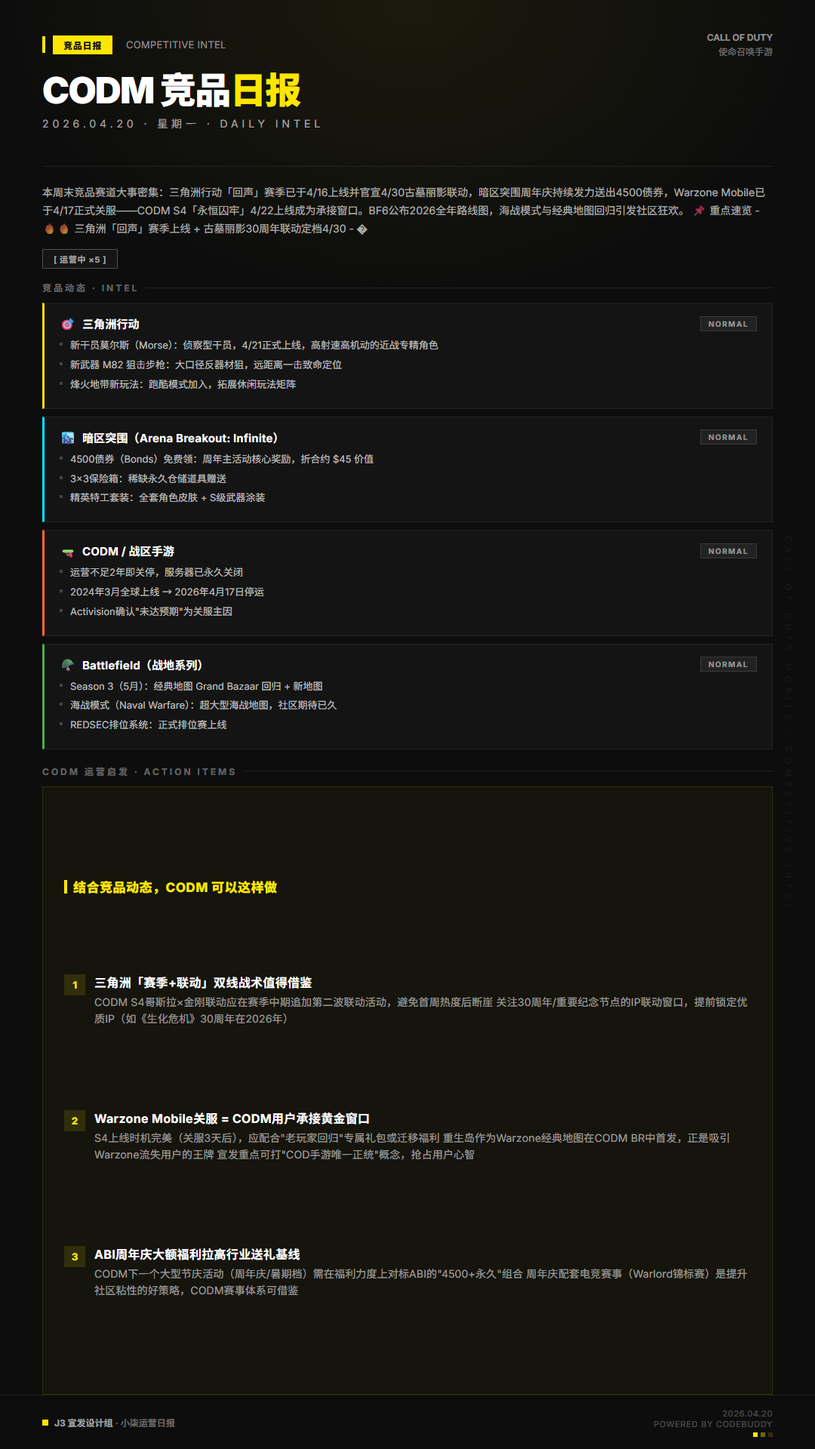
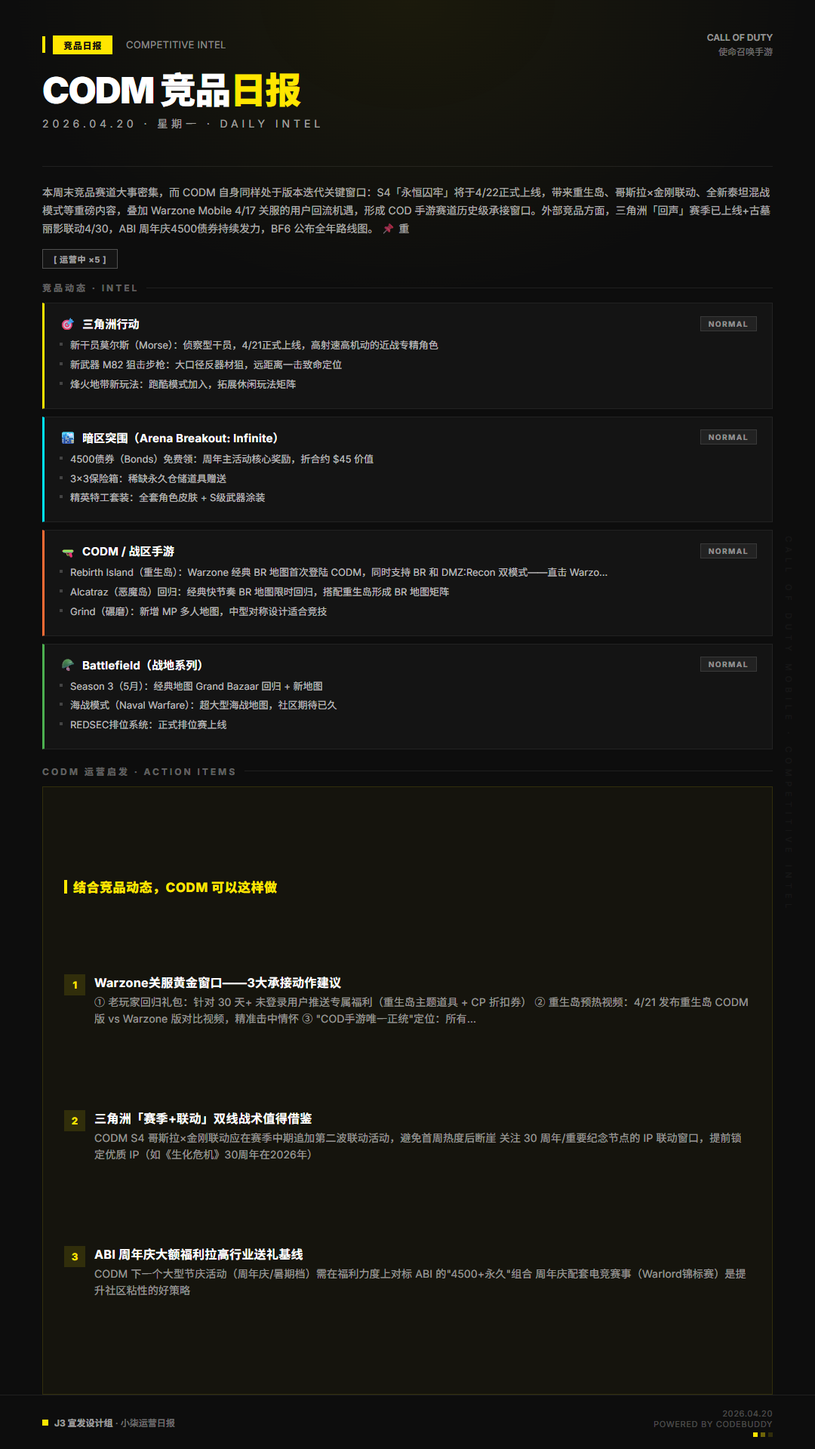
fix: CODM competitive daily 20260420 - add detailed CODM S4 own news

diff --git a/docs/competitive-daily/competitive-daily-card-20260420.html b/docs/competitive-daily/competitive-daily-card-20260420.html
@@ -494,7 +494,7 @@
 
   <!-- 概览 -->
   <div class="overview">
-    <div class="overview-text">本周末竞品赛道大事密集：三角洲行动「回声」赛季已于4/16上线并官宣4/30古墓丽影联动，暗区突围周年庆持续发力送出4500债券，Warzone Mobile已于4/17正式关服——CODM S4「永恒囚牢」4/22上线成为承接窗口。BF6公布2026全年路线图，海战模式与经典地图回归引发社区狂欢。 📌 重点速览 - 🔥🔥 三角洲「回声」赛季上线 + 古墓丽影30周年联动定档4/30 - �</div>
+    <div class="overview-text">本周末竞品赛道大事密集，而 CODM 自身同样处于版本迭代关键窗口：S4「永恒囚牢」将于4/22正式上线，带来重生岛、哥斯拉×金刚联动、全新泰坦混战模式等重磅内容，叠加 Warzone Mobile 4/17 关服的用户回流机遇，形成 COD 手游赛道历史级承接窗口。外部竞品方面，三角洲「回声」赛季已上线+古墓丽影联动4/30，ABI 周年庆4500债券持续发力，BF6 公布全年路线图。 📌 重</div>
   </div>
 
   <!-- 威胁条 -->
@@ -532,7 +532,7 @@
           <span class="comp-name">CODM / 战区手游</span>
           <span class="comp-threat threat-normal">NORMAL</span>
         </div>
-        <div class="comp-highlight">运营不足2年即关停，服务器已永久关闭</div><div class="comp-highlight">2024年3月全球上线 → 2026年4月17日停运</div><div class="comp-highlight">Activision确认"未达预期"为关服主因</div>
+        <div class="comp-highlight">Rebirth Island（重生岛）：Warzone 经典 BR 地图首次登陆 CODM，同时支持 BR 和 DMZ:Recon 双模式——直击 Warzo…</div><div class="comp-highlight">Alcatraz（恶魔岛）回归：经典快节奏 BR 地图限时回归，搭配重生岛形成 BR 地图矩阵</div><div class="comp-highlight">Grind（碾磨）：新增 MP 多人地图，中型对称设计适合竞技</div>
       </div>
       <div class="comp-card" style="border-left-color: #4CAF50;">
         <div class="comp-header">
@@ -556,26 +556,26 @@
       <div class="insight-item">
         <span class="insight-num">1</span>
         <div class="insight-body">
-          <div class="insight-title">三角洲「赛季+联动」双线战术值得借鉴</div>
-          <div class="insight-text">CODM S4哥斯拉×金刚联动应在赛季中期追加第二波联动活动，避免首周热度后断崖
-关注30周年/重要纪念节点的IP联动窗口，提前锁定优质IP（如《生化危机》30周年在2026年）</div>
+          <div class="insight-title">Warzone关服黄金窗口——3大承接动作建议</div>
+          <div class="insight-text">① 老玩家回归礼包：针对 30 天+ 未登录用户推送专属福利（重生岛主题道具 + CP 折扣券）
+② 重生岛预热视频：4/21 发布重生岛 CODM 版 vs Warzone 版对比视频，精准击中情怀
+③ "COD手游唯一正统"定位：所有…</div>
         </div>
       </div>
       <div class="insight-item">
         <span class="insight-num">2</span>
         <div class="insight-body">
-          <div class="insight-title">Warzone Mobile关服 = CODM用户承接黄金窗口</div>
-          <div class="insight-text">S4上线时机完美（关服3天后），应配合"老玩家回归"专属礼包或迁移福利
-重生岛作为Warzone经典地图在CODM BR中首发，正是吸引Warzone流失用户的王牌
-宣发重点可打"COD手游唯一正统"概念，抢占用户心智</div>
+          <div class="insight-title">三角洲「赛季+联动」双线战术值得借鉴</div>
+          <div class="insight-text">CODM S4 哥斯拉×金刚联动应在赛季中期追加第二波联动活动，避免首周热度后断崖
+关注 30 周年/重要纪念节点的 IP 联动窗口，提前锁定优质 IP（如《生化危机》30周年在2026年）</div>
         </div>
       </div>
       <div class="insight-item">
         <span class="insight-num">3</span>
         <div class="insight-body">
-          <div class="insight-title">ABI周年庆大额福利拉高行业送礼基线</div>
-          <div class="insight-text">CODM下一个大型节庆活动（周年庆/暑期档）需在福利力度上对标ABI的"4500+永久"组合
-周年庆配套电竞赛事（Warlord锦标赛）是提升社区粘性的好策略，CODM赛事体系可借鉴</div>
+          <div class="insight-title">ABI 周年庆大额福利拉高行业送礼基线</div>
+          <div class="insight-text">CODM 下一个大型节庆活动（周年庆/暑期档）需在福利力度上对标 ABI 的"4500+永久"组合
+周年庆配套电竞赛事（Warlord锦标赛）是提升社区粘性的好策略</div>
         </div>
       </div>
       </div>

diff --git a/docs/competitive-daily/index.html b/docs/competitive-daily/index.html
@@ -473,7 +473,7 @@
         </div>
         <div class="stat-item">
           <div class="stat-label">Generated At</div>
-          <div class="stat-note">2026/4/20 09:40:08</div>
+          <div class="stat-note">2026/4/20 16:55:18</div>
         </div>
       </aside>
     </section>
@@ -525,7 +525,7 @@
           <a class="action-secondary" href="./competitive-daily-card-20260420.png">查看 PNG</a>
         </div>
         <div class="archive-footer">
-          <span>页面更新时间：2026/4/20 09:39:50</span>
+          <span>页面更新时间：2026/4/20 16:54:43</span>
           <a href="https://wangqi422.github.io/my-llm-wiki/docs/competitive-daily/competitive-daily-card-20260420.html" target="_blank" rel="noreferrer">GitHub Pages</a>
         </div>
       </article>

diff --git a/docs/competitive-daily/CODM_Competitive_Daily_20260420.md b/docs/competitive-daily/CODM_Competitive_Daily_20260420.md
@@ -2,11 +2,12 @@
 
 ## 📊 今日概览
 
-本周末竞品赛道大事密集：三角洲行动「回声」赛季已于4/16上线并官宣4/30古墓丽影联动，暗区突围周年庆持续发力送出4500债券，Warzone Mobile已于4/17正式关服——CODM S4「永恒囚牢」4/22上线成为承接窗口。BF6公布2026全年路线图，海战模式与经典地图回归引发社区狂欢。
+本周末竞品赛道大事密集，而 CODM 自身同样处于版本迭代关键窗口：S4「永恒囚牢」将于4/22正式上线，带来重生岛、哥斯拉×金刚联动、全新泰坦混战模式等重磅内容，叠加 Warzone Mobile 4/17 关服的用户回流机遇，形成 COD 手游赛道历史级承接窗口。外部竞品方面，三角洲「回声」赛季已上线+古墓丽影联动4/30，ABI 周年庆4500债券持续发力，BF6 公布全年路线图。
 
 📌 重点速览
+- 🔥🔥🔥 CODM S4「永恒囚牢」4/22上线：重生岛+哥斯拉×金刚+泰坦混战+DMZ大改
+- 🔥🔥 Warzone Mobile 4/17关服，CODM成为COD手游赛道唯一产品
 - 🔥🔥 三角洲「回声」赛季上线 + 古墓丽影30周年联动定档4/30
-- 🔥🔥 Warzone Mobile 4/17关服，CODM S4成唯一COD手游承接口
 - 🔥 ABI一周年庆高潮：4500债券 + 电视台地图 + Warlord锦标赛
 - ⚠ BF6公布2026路线图：海战模式 + REDSEC排位 + 经典地图回归
 
@@ -58,24 +59,58 @@
 
 ## 📱 CODM / 战区手游
 
-**关注等级：🔥🔥🔥（核心产品 — 关键承接窗口期）**
+**关注等级：🔥🔥🔥🔥（核心产品 — S4 上线倒计时 + 历史级承接窗口）**
 
-### Warzone Mobile 4/17 正式关服 ⚫
-- 运营不足2年即关停，服务器已永久关闭
-- 2024年3月全球上线 → 2026年4月17日停运
-- Activision确认"未达预期"为关服主因
+### ⭐ CODM S4「永恒囚牢 Eternal Prison」4/22上线（倒计时2天）
+
+#### 🗺 新地图
+- **Rebirth Island（重生岛）**：Warzone 经典 BR 地图首次登陆 CODM，同时支持 BR 和 DMZ:Recon 双模式——直击 Warzone 流失用户情怀
+- **Alcatraz（恶魔岛）回归**：经典快节奏 BR 地图限时回归，搭配重生岛形成 BR 地图矩阵
+- **Grind（碾磨）**：新增 MP 多人地图，中型对称设计适合竞技
+- 来源：https://www.callofduty.com/blog/2026/04/call-of-duty-mobile-season-4-2026-eternal-prison
+
+#### 🦎 哥斯拉 × 金刚联动（Godzilla x Kong: The New Empire）
+- **泰坦混战模式 Titan Mayhem**：全新 PvPvE 大型模式，4 支队伍在城市废墟中对战同时应对哥斯拉和金刚 NPC 巨兽攻击，需协作击败泰坦获取终极奖励——玩法融合 BR 生存+Boss Raid+PvP 三要素
+- **联动干员外观**：哥斯拉主题 Legendary 全套装备 + 金刚主题 Epic 装备
+- **联动武器蓝图**：泰坦主题武器涂装、挂件、喷漆等定制道具
+- **联动限时任务链**：完成泰坦挑战获取免费联动奖励
+- 来源：GamingOnPhone https://gamingonphone.com/news/cod-mobile-season-4-2026-eternal-prison-brings-rebirth-island-mythic-dp27-and-godzilla-x-kong-collaboration/
+
+#### 🔫 新武器 & 通行证
+- **Mythic DP-27 机枪**：S4 通行证终极奖励，Mythic 级别定制动态特效（继 Mythic Holger 26 后第二把 Mythic LMG）
+- **Vargo S 突击步枪**：新增免费武器，中近距离全自动步枪
+- **通行证亮点干员**：Ghost — Warden（付费线终极）、Iskra — Titan Slayer（联动主题）、Alex — Eternal Guard（免费线）
+- **免费通行证内容**：Vargo S + 联动喷漆 + 头像框 + 经验卡等 50 级内容
+- 来源：InsideSport https://www.insidesport.in/call-of-duty/cod-mobile-season-4-2026-battle-pass-items-and-more/ / ZillionGamer https://zilliongamer.com/call-of-duty-mobile/c/news/cod-mobile-season-4-all-you-need-to-know
+
+#### 🎮 DMZ:Recon 大型改版
+- **重生岛加入 DMZ 地图池**：DMZ 模式可用地图从 2 张扩展到 3 张
+- **合同系统重做**：新增高风险合同类型，奖励更丰厚但 AI 敌人更强
+- **撤离机制优化**：新增多个动态撤离点，减少守尸堵撤离点的负体验
+- **背包系统调整**：扩展战术装备栏位，提升搜打撤循环深度
+
+#### 🏆 赛事 & 社区
+- **CODM 2026 Spring Major 春季赛**：全球赛事持续进行中，S4 赛季将推出配套观赛活动
+- **排位赛新赛季**：S4 排位重置，新赛季排位奖励含 Epic 武器蓝图
+
+#### 📊 平衡性 & 技术
+- **Toxic Overload 新 BR 职业**：毒系战术职业，可释放毒雾区域控制战场
+- **连杀奖励调整**：新增/调整部分连杀奖励以配合泰坦混战模式
+- **反作弊系统升级**：S4 同步更新反作弊引擎
+
+### ⚫ Warzone Mobile 4/17 正式关服
+- 运营不足 2 年即关停，服务器已永久关闭
+- 2024 年 3 月全球上线 → 2026 年 4 月 17 日停运
+- Activision 确认"未达长期运营预期"为关服主因
+- **用户回流数据窗口**：关服后首周末（4/19-20），CODM 下载量和 DAU 数据将成为验证承接效果的关键指标
 - 来源：https://support.activision.com/warzone-mobile/articles/warzone-mobile-service-changes / IGN https://www.ign.com/articles/call-of-duty-warzone-mobile-servers-will-be-turned-off-in-april-activision-confirms
 
-### CODM S4「永恒囚牢」4/22上线（倒计时2天）
-- **Rebirth Island（重生岛）**：经典BR地图首次登陆CODM BR + DMZ:Recon
-- **哥斯拉 × 金刚联动**：怪兽主题干员外观 + 主题任务
-- **Mythic DP-27 机枪**：新赛季通行证终极武器
-- **Vargo S 突击步枪**：新武器加入
-- 来源：官方博客 https://www.callofduty.com/blog/2026/04/call-of-duty-mobile-season-4-2026-eternal-prison
-
-### 战略窗口
-- Warzone Mobile关服 + CODM S4上线 = 3天窗口期（4/17→4/22），是COD手游用户重整合的关键时刻
-- 重生岛地图和怪兽联动均为Warzone老用户的情怀牌
+### 📐 战略窗口分析
+- **时间线**：Warzone Mobile 关服（4/17）→ 首周末回流（4/19-20）→ CODM S4 上线（4/22）= 完美 5 天过渡窗口
+- **情怀牌**：重生岛 + Alcatraz 双经典地图精准命中 Warzone 老玩家
+- **联动牌**：哥斯拉×金刚 IP 覆盖全球泛用户群体，非 COD 核心玩家也有动力入坑
+- **内容深度**：泰坦混战（新品类）+ DMZ 改版（硬核向）+ BR 新地图（大众向）三线并进
+- **CODM 现已成为 COD 手游赛道唯一在运营产品**，战略地位空前提升
 
 ---
 
@@ -99,24 +134,31 @@
 
 ## 💡 运营洞察
 
-### 1. 三角洲「赛季+联动」双线战术值得借鉴
-- **竞品做法**：S9先用新干员/新武器拉日活，2周后古墓丽影联动续热度——周期拉到6周
-- **对 CODM 的启示**：
-  - CODM S4哥斯拉×金刚联动应在赛季中期追加第二波联动活动，避免首周热度后断崖
-  - 关注30周年/重要纪念节点的IP联动窗口，提前锁定优质IP（如《生化危机》30周年在2026年）
+### 1. CODM S4 内容矩阵堪称年度最强——需最大化宣发声量
+- **CODM 做了什么**：S4 一次性投放重生岛+哥斯拉联动+泰坦混战+DMZ改版+Mythic武器，内容密度远超常规赛季
+- **对宣发的启示**：
+  - 内容量足以支撑"分波投放"策略：首周主推重生岛+联动（拉新），第二周主推泰坦混战+DMZ改版（留存深度），第三周Mythic武器+排位新赛季（付费转化）
+  - 社交媒体素材可按"每日一个大特性"连续发布7天，避免首日信息过载后续断档
+  - 泰坦混战模式是全新品类（PvPvE + Boss Raid），宣发上应突出差异化——"这不只是又一个BR"
 
-### 2. Warzone Mobile关服 = CODM用户承接黄金窗口
-- **竞品做法**：Activision主动关停Warzone Mobile，COD手游赛道只剩CODM
+### 2. Warzone关服黄金窗口——3大承接动作建议
+- **背景**：Warzone Mobile 4/17 关服后首周末（4/19-20），流失用户处于"寻找新手游"状态
 - **对 CODM 的启示**：
-  - S4上线时机完美（关服3天后），应配合"老玩家回归"专属礼包或迁移福利
-  - 重生岛作为Warzone经典地图在CODM BR中首发，正是吸引Warzone流失用户的王牌
-  - 宣发重点可打"COD手游唯一正统"概念，抢占用户心智
+  - ① 老玩家回归礼包：针对 30 天+ 未登录用户推送专属福利（重生岛主题道具 + CP 折扣券）
+  - ② 重生岛预热视频：4/21 发布重生岛 CODM 版 vs Warzone 版对比视频，精准击中情怀
+  - ③ "COD手游唯一正统"定位：所有渠道宣发统一口径——CODM 现在是唯一的 COD 移动体验
 
-### 3. ABI周年庆大额福利拉高行业送礼基线
-- **竞品做法**：4500债券（约$45）+ 永久道具批量赠送，一周年庆诚意极高
+### 3. 三角洲「赛季+联动」双线战术值得借鉴
+- **竞品做法**：S9 先用新干员/新武器拉日活，2 周后古墓丽影联动续热度——周期拉到 6 周
 - **对 CODM 的启示**：
-  - CODM下一个大型节庆活动（周年庆/暑期档）需在福利力度上对标ABI的"4500+永久"组合
-  - 周年庆配套电竞赛事（Warlord锦标赛）是提升社区粘性的好策略，CODM赛事体系可借鉴
+  - CODM S4 哥斯拉×金刚联动应在赛季中期追加第二波联动活动，避免首周热度后断崖
+  - 关注 30 周年/重要纪念节点的 IP 联动窗口，提前锁定优质 IP（如《生化危机》30周年在2026年）
+
+### 4. ABI 周年庆大额福利拉高行业送礼基线
+- **竞品做法**：4500 债券（约 $45）+ 永久道具批量赠送，一周年庆诚意极高
+- **对 CODM 的启示**：
+  - CODM 下一个大型节庆活动（周年庆/暑期档）需在福利力度上对标 ABI 的"4500+永久"组合
+  - 周年庆配套电竞赛事（Warlord锦标赛）是提升社区粘性的好策略
 
 ---
 
@@ -124,7 +166,7 @@
 
 | 竞品 | 本周宣发动作 | 强度 | 核心策略 |
 |------|-------------|------|---------|
+| **CODM** | **S4永恒囚牢4/22+哥斯拉联动+泰坦混战+重生岛+Warzone承接** | **██████████ 10/10** | **年度最强赛季+唯一COD手游** |
 | 三角洲行动 | S9上线+古墓丽影联动预热 | ██████████ 10/10 | 赛季+IP双线 |
 | 暗区突围 | 一周年庆+4500债券+电竞赛事 | ████████░░ 8/10 | 周年庆全面铺开 |
-| CODM | S4预热+Warzone关服承接 | ████████░░ 8/10 | 承接窗口+怪兽联动 |
 | Battlefield 6 | 2026路线图+海战模式公布 | ██████░░░░ 6/10 | 长线路线图提振信心 |

diff --git a/raw/daily-reports/CODM_Competitive_Daily_20260420.md b/raw/daily-reports/CODM_Competitive_Daily_20260420.md
@@ -2,11 +2,12 @@
 
 ## 📊 今日概览
 
-本周末竞品赛道大事密集：三角洲行动「回声」赛季已于4/16上线并官宣4/30古墓丽影联动，暗区突围周年庆持续发力送出4500债券，Warzone Mobile已于4/17正式关服——CODM S4「永恒囚牢」4/22上线成为承接窗口。BF6公布2026全年路线图，海战模式与经典地图回归引发社区狂欢。
+本周末竞品赛道大事密集，而 CODM 自身同样处于版本迭代关键窗口：S4「永恒囚牢」将于4/22正式上线，带来重生岛、哥斯拉×金刚联动、全新泰坦混战模式等重磅内容，叠加 Warzone Mobile 4/17 关服的用户回流机遇，形成 COD 手游赛道历史级承接窗口。外部竞品方面，三角洲「回声」赛季已上线+古墓丽影联动4/30，ABI 周年庆4500债券持续发力，BF6 公布全年路线图。
 
 📌 重点速览
+- 🔥🔥🔥 CODM S4「永恒囚牢」4/22上线：重生岛+哥斯拉×金刚+泰坦混战+DMZ大改
+- 🔥🔥 Warzone Mobile 4/17关服，CODM成为COD手游赛道唯一产品
 - 🔥🔥 三角洲「回声」赛季上线 + 古墓丽影30周年联动定档4/30
-- 🔥🔥 Warzone Mobile 4/17关服，CODM S4成唯一COD手游承接口
 - 🔥 ABI一周年庆高潮：4500债券 + 电视台地图 + Warlord锦标赛
 - ⚠ BF6公布2026路线图：海战模式 + REDSEC排位 + 经典地图回归
 
@@ -58,24 +59,58 @@
 
 ## 📱 CODM / 战区手游
 
-**关注等级：🔥🔥🔥（核心产品 — 关键承接窗口期）**
+**关注等级：🔥🔥🔥🔥（核心产品 — S4 上线倒计时 + 历史级承接窗口）**
 
-### Warzone Mobile 4/17 正式关服 ⚫
-- 运营不足2年即关停，服务器已永久关闭
-- 2024年3月全球上线 → 2026年4月17日停运
-- Activision确认"未达预期"为关服主因
+### ⭐ CODM S4「永恒囚牢 Eternal Prison」4/22上线（倒计时2天）
+
+#### 🗺 新地图
+- **Rebirth Island（重生岛）**：Warzone 经典 BR 地图首次登陆 CODM，同时支持 BR 和 DMZ:Recon 双模式——直击 Warzone 流失用户情怀
+- **Alcatraz（恶魔岛）回归**：经典快节奏 BR 地图限时回归，搭配重生岛形成 BR 地图矩阵
+- **Grind（碾磨）**：新增 MP 多人地图，中型对称设计适合竞技
+- 来源：https://www.callofduty.com/blog/2026/04/call-of-duty-mobile-season-4-2026-eternal-prison
+
+#### 🦎 哥斯拉 × 金刚联动（Godzilla x Kong: The New Empire）
+- **泰坦混战模式 Titan Mayhem**：全新 PvPvE 大型模式，4 支队伍在城市废墟中对战同时应对哥斯拉和金刚 NPC 巨兽攻击，需协作击败泰坦获取终极奖励——玩法融合 BR 生存+Boss Raid+PvP 三要素
+- **联动干员外观**：哥斯拉主题 Legendary 全套装备 + 金刚主题 Epic 装备
+- **联动武器蓝图**：泰坦主题武器涂装、挂件、喷漆等定制道具
+- **联动限时任务链**：完成泰坦挑战获取免费联动奖励
+- 来源：GamingOnPhone https://gamingonphone.com/news/cod-mobile-season-4-2026-eternal-prison-brings-rebirth-island-mythic-dp27-and-godzilla-x-kong-collaboration/
+
+#### 🔫 新武器 & 通行证
+- **Mythic DP-27 机枪**：S4 通行证终极奖励，Mythic 级别定制动态特效（继 Mythic Holger 26 后第二把 Mythic LMG）
+- **Vargo S 突击步枪**：新增免费武器，中近距离全自动步枪
+- **通行证亮点干员**：Ghost — Warden（付费线终极）、Iskra — Titan Slayer（联动主题）、Alex — Eternal Guard（免费线）
+- **免费通行证内容**：Vargo S + 联动喷漆 + 头像框 + 经验卡等 50 级内容
+- 来源：InsideSport https://www.insidesport.in/call-of-duty/cod-mobile-season-4-2026-battle-pass-items-and-more/ / ZillionGamer https://zilliongamer.com/call-of-duty-mobile/c/news/cod-mobile-season-4-all-you-need-to-know
+
+#### 🎮 DMZ:Recon 大型改版
+- **重生岛加入 DMZ 地图池**：DMZ 模式可用地图从 2 张扩展到 3 张
+- **合同系统重做**：新增高风险合同类型，奖励更丰厚但 AI 敌人更强
+- **撤离机制优化**：新增多个动态撤离点，减少守尸堵撤离点的负体验
+- **背包系统调整**：扩展战术装备栏位，提升搜打撤循环深度
+
+#### 🏆 赛事 & 社区
+- **CODM 2026 Spring Major 春季赛**：全球赛事持续进行中，S4 赛季将推出配套观赛活动
+- **排位赛新赛季**：S4 排位重置，新赛季排位奖励含 Epic 武器蓝图
+
+#### 📊 平衡性 & 技术
+- **Toxic Overload 新 BR 职业**：毒系战术职业，可释放毒雾区域控制战场
+- **连杀奖励调整**：新增/调整部分连杀奖励以配合泰坦混战模式
+- **反作弊系统升级**：S4 同步更新反作弊引擎
+
+### ⚫ Warzone Mobile 4/17 正式关服
+- 运营不足 2 年即关停，服务器已永久关闭
+- 2024 年 3 月全球上线 → 2026 年 4 月 17 日停运
+- Activision 确认"未达长期运营预期"为关服主因
+- **用户回流数据窗口**：关服后首周末（4/19-20），CODM 下载量和 DAU 数据将成为验证承接效果的关键指标
 - 来源：https://support.activision.com/warzone-mobile/articles/warzone-mobile-service-changes / IGN https://www.ign.com/articles/call-of-duty-warzone-mobile-servers-will-be-turned-off-in-april-activision-confirms
 
-### CODM S4「永恒囚牢」4/22上线（倒计时2天）
-- **Rebirth Island（重生岛）**：经典BR地图首次登陆CODM BR + DMZ:Recon
-- **哥斯拉 × 金刚联动**：怪兽主题干员外观 + 主题任务
-- **Mythic DP-27 机枪**：新赛季通行证终极武器
-- **Vargo S 突击步枪**：新武器加入
-- 来源：官方博客 https://www.callofduty.com/blog/2026/04/call-of-duty-mobile-season-4-2026-eternal-prison
-
-### 战略窗口
-- Warzone Mobile关服 + CODM S4上线 = 3天窗口期（4/17→4/22），是COD手游用户重整合的关键时刻
-- 重生岛地图和怪兽联动均为Warzone老用户的情怀牌
+### 📐 战略窗口分析
+- **时间线**：Warzone Mobile 关服（4/17）→ 首周末回流（4/19-20）→ CODM S4 上线（4/22）= 完美 5 天过渡窗口
+- **情怀牌**：重生岛 + Alcatraz 双经典地图精准命中 Warzone 老玩家
+- **联动牌**：哥斯拉×金刚 IP 覆盖全球泛用户群体，非 COD 核心玩家也有动力入坑
+- **内容深度**：泰坦混战（新品类）+ DMZ 改版（硬核向）+ BR 新地图（大众向）三线并进
+- **CODM 现已成为 COD 手游赛道唯一在运营产品**，战略地位空前提升
 
 ---
 
@@ -99,24 +134,31 @@
 
 ## 💡 运营洞察
 
-### 1. 三角洲「赛季+联动」双线战术值得借鉴
-- **竞品做法**：S9先用新干员/新武器拉日活，2周后古墓丽影联动续热度——周期拉到6周
-- **对 CODM 的启示**：
-  - CODM S4哥斯拉×金刚联动应在赛季中期追加第二波联动活动，避免首周热度后断崖
-  - 关注30周年/重要纪念节点的IP联动窗口，提前锁定优质IP（如《生化危机》30周年在2026年）
+### 1. CODM S4 内容矩阵堪称年度最强——需最大化宣发声量
+- **CODM 做了什么**：S4 一次性投放重生岛+哥斯拉联动+泰坦混战+DMZ改版+Mythic武器，内容密度远超常规赛季
+- **对宣发的启示**：
+  - 内容量足以支撑"分波投放"策略：首周主推重生岛+联动（拉新），第二周主推泰坦混战+DMZ改版（留存深度），第三周Mythic武器+排位新赛季（付费转化）
+  - 社交媒体素材可按"每日一个大特性"连续发布7天，避免首日信息过载后续断档
+  - 泰坦混战模式是全新品类（PvPvE + Boss Raid），宣发上应突出差异化——"这不只是又一个BR"
 
-### 2. Warzone Mobile关服 = CODM用户承接黄金窗口
-- **竞品做法**：Activision主动关停Warzone Mobile，COD手游赛道只剩CODM
+### 2. Warzone关服黄金窗口——3大承接动作建议
+- **背景**：Warzone Mobile 4/17 关服后首周末（4/19-20），流失用户处于"寻找新手游"状态
 - **对 CODM 的启示**：
-  - S4上线时机完美（关服3天后），应配合"老玩家回归"专属礼包或迁移福利
-  - 重生岛作为Warzone经典地图在CODM BR中首发，正是吸引Warzone流失用户的王牌
-  - 宣发重点可打"COD手游唯一正统"概念，抢占用户心智
+  - ① 老玩家回归礼包：针对 30 天+ 未登录用户推送专属福利（重生岛主题道具 + CP 折扣券）
+  - ② 重生岛预热视频：4/21 发布重生岛 CODM 版 vs Warzone 版对比视频，精准击中情怀
+  - ③ "COD手游唯一正统"定位：所有渠道宣发统一口径——CODM 现在是唯一的 COD 移动体验
 
-### 3. ABI周年庆大额福利拉高行业送礼基线
-- **竞品做法**：4500债券（约$45）+ 永久道具批量赠送，一周年庆诚意极高
+### 3. 三角洲「赛季+联动」双线战术值得借鉴
+- **竞品做法**：S9 先用新干员/新武器拉日活，2 周后古墓丽影联动续热度——周期拉到 6 周
 - **对 CODM 的启示**：
-  - CODM下一个大型节庆活动（周年庆/暑期档）需在福利力度上对标ABI的"4500+永久"组合
-  - 周年庆配套电竞赛事（Warlord锦标赛）是提升社区粘性的好策略，CODM赛事体系可借鉴
+  - CODM S4 哥斯拉×金刚联动应在赛季中期追加第二波联动活动，避免首周热度后断崖
+  - 关注 30 周年/重要纪念节点的 IP 联动窗口，提前锁定优质 IP（如《生化危机》30周年在2026年）
+
+### 4. ABI 周年庆大额福利拉高行业送礼基线
+- **竞品做法**：4500 债券（约 $45）+ 永久道具批量赠送，一周年庆诚意极高
+- **对 CODM 的启示**：
+  - CODM 下一个大型节庆活动（周年庆/暑期档）需在福利力度上对标 ABI 的"4500+永久"组合
+  - 周年庆配套电竞赛事（Warlord锦标赛）是提升社区粘性的好策略
 
 ---
 
@@ -124,7 +166,7 @@
 
 | 竞品 | 本周宣发动作 | 强度 | 核心策略 |
 |------|-------------|------|---------|
+| **CODM** | **S4永恒囚牢4/22+哥斯拉联动+泰坦混战+重生岛+Warzone承接** | **██████████ 10/10** | **年度最强赛季+唯一COD手游** |
 | 三角洲行动 | S9上线+古墓丽影联动预热 | ██████████ 10/10 | 赛季+IP双线 |
 | 暗区突围 | 一周年庆+4500债券+电竞赛事 | ████████░░ 8/10 | 周年庆全面铺开 |
-| CODM | S4预热+Warzone关服承接 | ████████░░ 8/10 | 承接窗口+怪兽联动 |
 | Battlefield 6 | 2026路线图+海战模式公布 | ██████░░░░ 6/10 | 长线路线图提振信心 |
